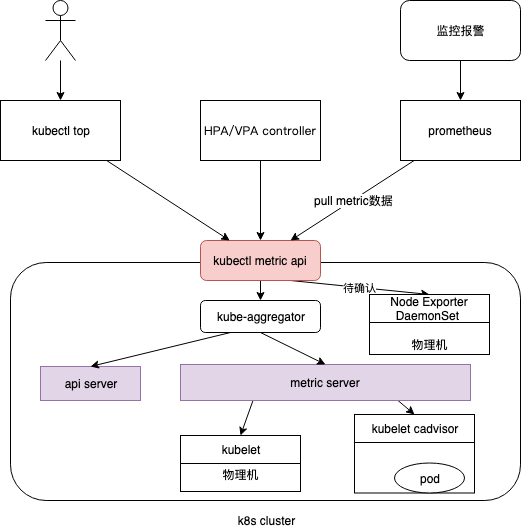
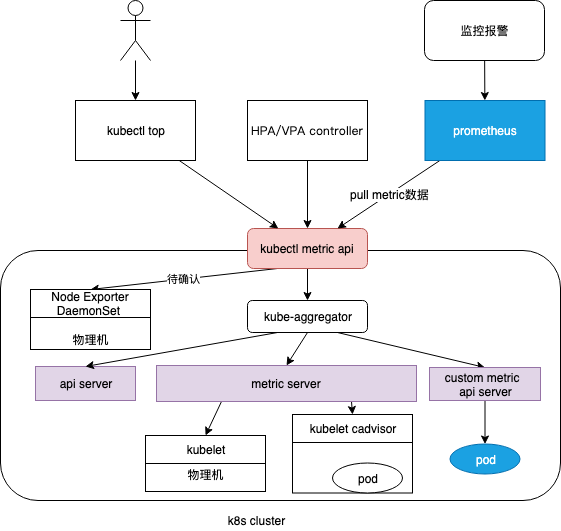
[fix]add doc

diff --git a/_posts/Technology/Kubernetes/2019-09-19-kubernetes_auto_scaler.md b/_posts/Technology/Kubernetes/2019-09-19-kubernetes_auto_scaler.md
@@ -8,7 +8,7 @@ keywords: kubernetes yaml
 
 ---
 
-## 简介（持续更新）
+## 简介
 
 * TOC
 {:toc}
@@ -20,7 +20,7 @@ keywords: kubernetes yaml
 ![](/public/upload/kubernetes/kubernetes_resource_manager.png)
 
 
-[Kubernetes Autoscaling 101: Cluster Autoscaler, Horizontal Pod Autoscaler, and Vertical Pod Autoscaler](https://medium.com/magalix/kubernetes-autoscaling-101-cluster-autoscaler-horizontal-pod-autoscaler-and-vertical-pod-2a441d9ad231) 未读完
+[Kubernetes Autoscaling 101: Cluster Autoscaler, Horizontal Pod Autoscaler, and Vertical Pod Autoscaler](https://medium.com/magalix/kubernetes-autoscaling-101-cluster-autoscaler-horizontal-pod-autoscaler-and-vertical-pod-2a441d9ad231) 
 
 **Kubernetes at its core is a resources management and orchestration tool**. It is ok to focus day-1 operations to explore and play around with its cool features to deploy, monitor and control your pods. However, you need to think of day-2 operations as well. You need to focus on questions like:
 
@@ -36,12 +36,109 @@ keywords: kubernetes yaml
 
 对于公有云来说，Cluster Auto Scaler 就是监控这个集群因为资源不足而 pending 的 pod，根据用户配置的阈值调用公有云的接口来申请创建机器或者销毁机器。对于私有云，则需要对接内部的管理平台。
 
+## HPA和VPA工作原理——CRD的典型应用
+
+![](/public/upload/kubernetes/auto_scaler.png)
+
+
+1. hpa 和 vpa 做出决策依赖 metric server 提供的metric 数据
+
+	![](/public/upload/kubernetes/kubernetes_metric_server.png)
+2. Kubernetes 本身“安装” hpa 和 vpa 的CRD，以支持vpa or hpa Kubernetes object 
+3. 对于每个应用，创建一个对象的vpa or hpa对象
+4. hpa or vpa CRD 不停的拉取metric 数据，根据hpa or vpa 对象配置的策略，计算出pod 的最佳replica（hpa）或resource（vpa），更改deployment 配置，重启deployment
+
 ## Horizontal Pod Autoscaler 
+
+配置示例`kubectl apply sample-metrics-app.yaml` 该示例根据一个custom metric 来决定是否进行横向扩容。 
+
+	kind: HorizontalPodAutoscaler
+	apiVersion: autoscaling/v2beta1
+	metadata:
+	  name: sample-metrics-app-hpa
+	spec:
+	  scaleTargetRef:
+	    apiVersion: apps/v1
+	    kind: Deployment
+	    name: sample-metrics-app
+	  minReplicas: 2
+	  maxReplicas: 10
+	  metrics:
+	  - type: Object
+	    object:
+	      target:
+	        kind: Service
+	        name: sample-metrics-app
+	      metricName: http_requests
+	      targetValue: 100
+
+
+1. scaleTargetRef,指定了被监控的对象是名叫 sample-metrics-app的Deployment
+2. 最小的实例数目是 2，最大是 10
+3. 在 metrics 字段，我们指定了这个 HPA 进行 Scale 的依据，是名叫 http_requests 的 Metrics。而获取这个 Metrics 的途径，则是访问名叫 sample-metrics-app 的 Service。
+4. 有了上述约定，hpa 就可以向请求`https://<apiserver_ip>/apis/custom-metrics.metrics.k8s.io/v1beta1/namespaces/default/services/sample-metrics-app/http_requests` 来获取custome metric 的值了。
+
+
+
 
 ## Vertical Pod Autoscaler
 
 [Vertical Pod Autoscaler](https://github.com/kubernetes/autoscaler/tree/master/vertical-pod-autoscaler)
 
+
+配置示例
+
+	apiVersion: autoscaling.k8s.io/v1beta2
+	kind: VerticalPodAutoscaler
+	metadata:
+	  name: my-rec-vpa
+	spec:
+	  targetRef:
+	    apiVersion: "extensions/v1beta1"
+	    kind:       Deployment
+	    name:       my-rec-deployment
+	  updatePolicy:
+	    updateMode: "Off"
+	    
+1. targetRef 指定了被监控的对象是名叫 my-rec-deployment的Deployment
+2. `kubectl create -f my-rec-vpa.yaml` 稍等片刻，然后查看 VerticalPodAutoscaler：`kubectl get vpa my-rec-vpa --output yaml`
+
+输出结果显示推荐的 CPU 和内存请求：
+
+	  recommendation:
+    	containerRecommendations:
+	    - containerName: my-rec-container
+	      lowerBound:
+	        cpu: 25m
+	        memory: 262144k
+	      target:
+	        cpu: 25m
+	        memory: 262144k
+	      upperBound:
+	        cpu: 7931m
+	        memory: 8291500k
+	        
+target 推荐显示，容器请求25 milliCPU 和 262144 千字节的内存时将以最佳状态运行。
+
+
+配置示例
+
+	apiVersion: autoscaling.k8s.io/v1beta2
+	kind: VerticalPodAutoscaler
+	metadata:
+	  name: my-vpa
+	spec:
+	  targetRef:
+	    apiVersion: "extensions/v1beta1"
+	    kind:       Deployment
+	    name:       my-deployment
+	  updatePolicy:
+	    updateMode: "Auto"
+
+
+1. targetRef 指定了被监控的对象是名叫 my-deployment的Deployment
+2. updateMode 字段的值为 Auto，意味着VerticalPodAutoscaler 可以删除 Pod，调整 CPU 和内存请求，然后启动一个新 Pod。
+3. VerticalPodAutoscaler 使用 lowerBound 和 upperBound 推荐值来决定是否删除 Pod 并将其替换为新 Pod。如果 Pod 的请求小于下限或大于上限，则 VerticalPodAutoscaler 将删除 Pod 并将其替换为具有目标推荐值的 Pod。
 
 
 ## 其它

diff --git a/_posts/Technology/Kubernetes/2019-03-07-kubernetes_monitor.md b/_posts/Technology/Kubernetes/2019-03-07-kubernetes_monitor.md
@@ -8,7 +8,7 @@ keywords: jib
 
 ---
 
-## 简介（未完成）
+## 简介（持续更新）
 
 * TOC
 {:toc}
